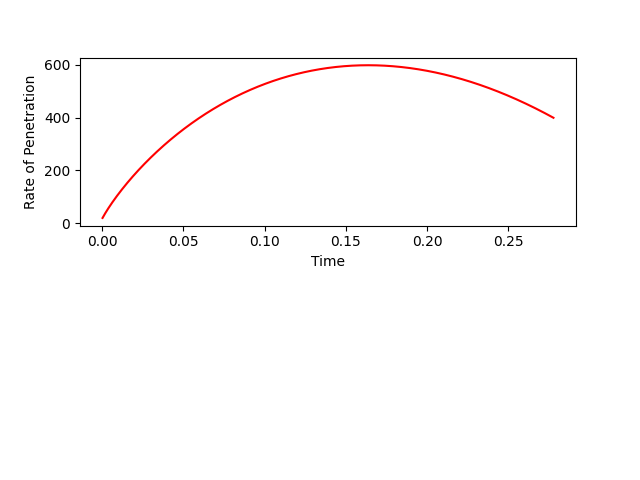
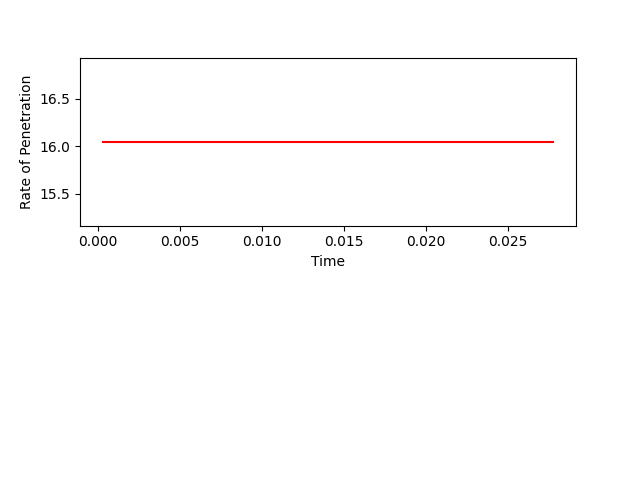
minor changes

diff --git a/rop_envs/rop_envs/envs/eckel_env.py b/rop_envs/rop_envs/envs/eckel_env.py
@@ -8,15 +8,20 @@ class EckelEnv(gym.Env):
 
     metadata = {'render.modes': ['human', 'ansi']}
     
-    MAX_WOB = 20
+    MAX_WOB = 160
     MAX_RPM = 650
-    MAX_Q = 400
+    MAX_Q = 334
 
-    MIN_WOB = 5
-    MIN_RPM = 150
+    MIN_WOB = 0
+    MIN_RPM = 40
     MIN_Q = 100
+    
 
     def __init__(self):
+        self.viewer = None
+        self.state = np.zeros(2)
+        self.seed()
+        
         #Eckel
         self.depth_final = 100
         self.delta_t = 1 /3600
@@ -29,33 +34,30 @@ class EckelEnv(gym.Env):
         self.my = 0.4
         self.d_n = 1.0
         self.rho = 22
-        self.a11 = 0.05
+        self.a11 = 0.005
         self.a22 = 0.05
         self.a33 = 0.05
 
-        self.state = np.zeros(2)
-
-        high = np.array([self.MAX_WOB, self.MAX_RPM, self.MAX_Q], dtype=np.float32)
-        low = np.array([self.MIN_WOB, self.MIN_RPM, self.MIN_Q], dtype=np.float32)
+        #high = np.array([self.MAX_WOB, self.MAX_RPM, self.MAX_Q], dtype=np.float32)
+        #low = np.array([self.MIN_WOB, self.MIN_RPM, self.MIN_Q], dtype=np.float32)
         self.observation_space = spaces.Box(low = 0, high = np.inf, shape = (2,), dtype=np.float32)
-        self.action_space = spaces.Box(low = low, high = high, dtype = np.float32)
+        self.action_space = spaces.Box(low = self.MIN_WOB, high = self.MAX_WOB, shape = (1,), dtype = np.float32)
     
 
 
     def step(self,action):
-        rpm = action[1]
-        wob = action[0]
-        q = action[2]
-
+        wob = action
+        rpm = self.MIN_RPM
+        q = self.MAX_Q
         depth = self.state[0]
-        rop = rate_of_penetration_eckel(self.a,self.b,self.c,self.K, self.k, wob, rpm, q, self.rho, self.d_n, self.my)
+        rop = rate_of_penetration_eckel(self.a,self.b,self.c,self.K, self.k, wob, rpm, q, self.rho, self.d_n, self.my, self.a11)
         depth += rop*self.delta_t
-        self.state = np.array([depth, rop])
-        reward = rop
-        obs = self.state
+        self.state[0] = depth
+        self.state[1] = rop
         done = self.isDone()
+        reward = rop/100
 
-        return obs, reward, done, {}
+        return self.state, reward, done, {}
 
     def render(self, mode = 'human'):
         print( str(' Depth : ') + str(self.state[0]) + str('\n'))
@@ -66,7 +68,7 @@ class EckelEnv(gym.Env):
         return self.state
 
     def isDone(self):
-        if self.depth_final <= self.state[0]:
+        if self.depth_final >= self.state[0]:
             return False
         else:
             return True

diff --git a/run_DDPG_Custom.py b/run_DDPG_Custom.py
@@ -11,32 +11,28 @@ import gym
 import testenv
 import rop_envs
 
-env = gym.make('by-v0')
-check_env(env)
+env = gym.make('eckel-v0')
+#check_env(env)
 
 n_actions = env.action_space.shape[-1]
 
 action_noise = NormalActionNoise(mean=np.zeros(n_actions), sigma=0.1 * np.ones(n_actions))
 
-
 model = DDPG('MlpPolicy', env, action_noise=action_noise, verbose=1)
 #model = PPO('MlpPolicy', env, verbose = 1)
-model.learn(total_timesteps = 100, log_interval=1)
+model.learn(total_timesteps = 1000, log_interval=1)
 
 mean_reward, std_reward = evaluate_policy(model, env, n_eval_episodes=1)
 print(f"mean_reward:{mean_reward:.2f} +/- {std_reward:.2f}")
 
 
-#model.save("first-dummy-test-DDPG")
+model.save("first-dummy-test-DDPG")
 env = model.get_env()
-#del model
+del model
 
-#model = DDPG.load("first-dummy-test-DDPG")
-#obs = env.reset()
+obs = env.reset()
 
-#plotter = []
-#for i in range(0,500): #while True:
-#    action, _states = model.predict(obs)
-#    obs, rewards, dones, info = env.step(action)
-#    plotter.append(obs)
-#    env.render()
+for i in range(0,500): #while True:
+    action, _states = model.predict(obs)
+    obs, rewards, dones, info = env.step(action)
+    env.render()

diff --git a/rop_envs/rop_envs/envs/by_env_modified.py b/rop_envs/rop_envs/envs/by_env_modified.py
@@ -29,7 +29,7 @@ class ByModEnv(gym.Env):
 
 
         ## Drilling parameters
-        self.depth_final = 500 #feet
+        self.depth_final = 0.5 #feet
         self.rho = 22 
         self.wob_init = 0.1 #10^3 lbf/in
         self.gp = 1.0        #lbm/gal
@@ -56,6 +56,7 @@ class ByModEnv(gym.Env):
 
     def step(self, action):
         depth = self.state[0]
+        print(type(depth))
         rpm = action[1]
         wob = action[0]
         q = action[2]
@@ -77,7 +78,7 @@ class ByModEnv(gym.Env):
         return self.state
 
     def isDone(self):
-        if self.depth_final <= self.state[0]:
+        if self.depth_final >= self.state[0]:
             return False
         else:
             return True

diff --git a/models/eckels/eckel.py b/models/eckels/eckel.py
@@ -2,10 +2,9 @@ import numpy as np
 import matplotlib.pyplot as plt
 
 
-def rate_of_penetration_eckel(a,b,c,K, k, wob, rpm, q, rho, d_n, my):
+def rate_of_penetration_eckel(a,b,c,K, k, wob, rpm, q, rho, d_n, my, a11):
     #hardcoded at some specific values for now
     rpm = 40
-    wob = 11000
     q = 334
     a = 0.1
     b = 0.11
@@ -15,4 +14,4 @@ def rate_of_penetration_eckel(a,b,c,K, k, wob, rpm, q, rho, d_n, my):
     rho = 1000
     d_n = 0.25
     my = 0.4
-    return K*(wob**a)*(rpm**b)*((k*q*rho)/(d_n*my))**c
+    return K*(wob**a)*(rpm**b)*((k*q*rho)/(d_n*my))**c - a11*np.power(wob,2)

diff --git a/models/simulation.py b/models/simulation.py
@@ -40,9 +40,10 @@ def simulation(depth,gp,rho,wob,wob_init,db,db_init,rpm,h,q,v, depth_final, delt
         depth_final = 1000
         model_parameters = [a,b,c,k,K]
         while depth < depth_final:
-            rop = rate_of_penetration_eckel(a,b,c,K, k, wob, rpm, q, rho, db, my)
+            rop = rate_of_penetration_eckel(a,b,c,K, k, wob, rpm, q, rho, db, my, a11)
             depth += rop*delta_t
             t += delta_t
+            wob += 0.5
             depth_dict.append(depth)
             rop_dict.append(rop)
             time_dict.append(t)

diff --git a/run_simulation.py b/run_simulation.py
@@ -3,7 +3,7 @@ from models.simulation import simulation
 from models.bourgouyne_young_1974.read_from_case import read_from_case
 
 case = 'WOB'
-model = 'test'
+model = 'eckel'
 
 
 ## Drilling parameters
@@ -14,7 +14,7 @@ rho = 22
 rpm = 600.0
 q = 300     #gal/min
 wob_init = 0.1 #10^3 lbf/in
-wob = 10      #10^3 lbf/in 
+wob = 0      #10^3 lbf/in 
 gp = 1.0        #lbm/gal
 db = 1.0
 db_init = db    #bit outer diameter in inches
@@ -28,7 +28,7 @@ c = 1
 K = 1
 k = 1
 my = 0.4
-a11 = 0.05
+a11 = 0.005
 a22 = 0.05
 a33 = 0.05
 

diff --git a/RL/testing_pendulum.py b/RL/testing_pendulum.py
@@ -8,9 +8,10 @@ from stable_baselines3.common.evaluation import evaluate_policy
 env = gym.make('CartPole-v1')
 model = PPO(MlpPolicy, env, verbose = 0)
 
-model.learn(total_timesteps=10000)
+model.learn(total_timesteps=1000)
 mean_reward, std_reward = evaluate_policy(model, env, n_eval_episodes=100)
 print(f"mean_reward:{mean_reward:.2f} +/- {std_reward:.2f}")
+
 
 
 
